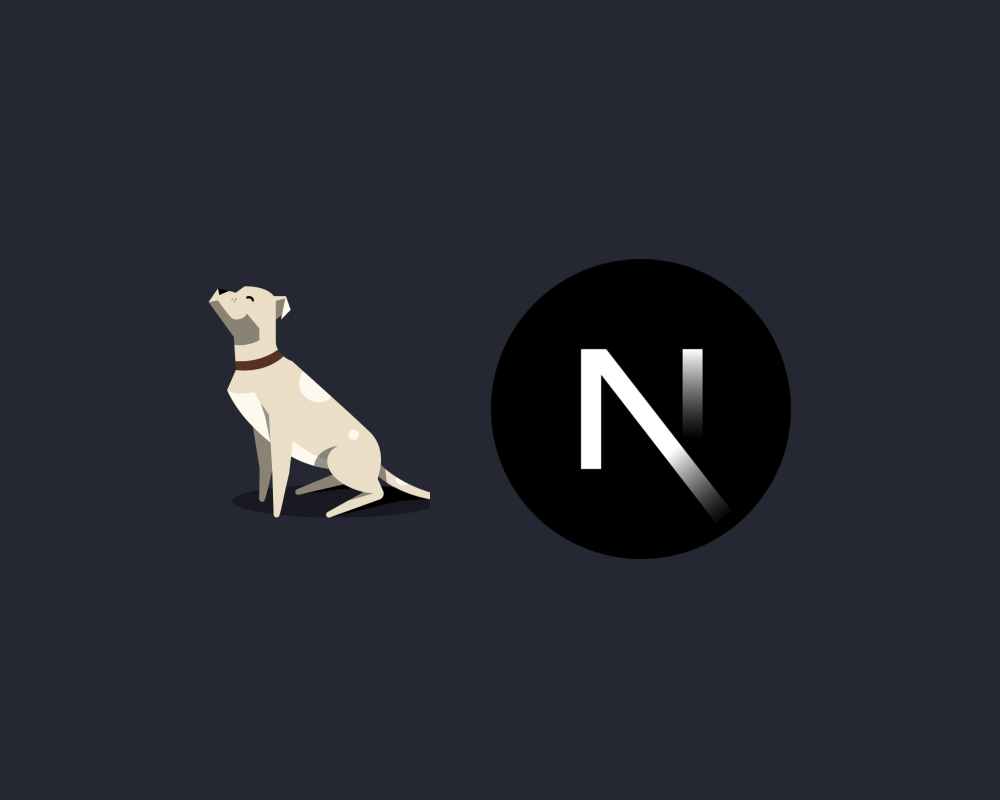
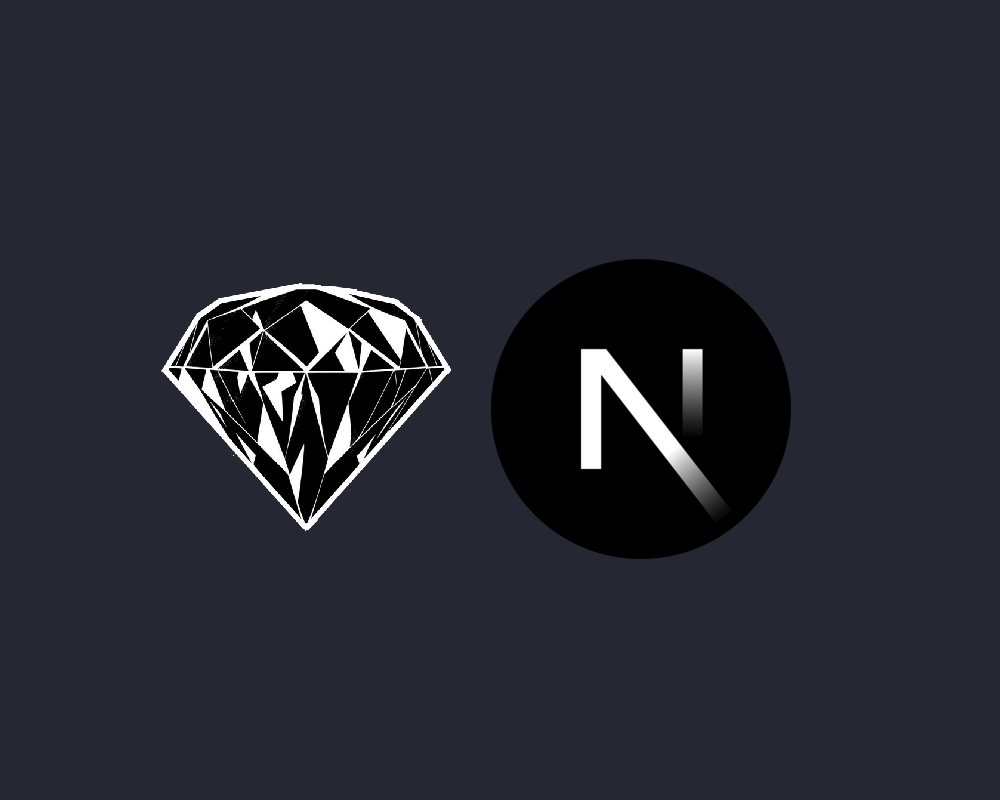
:sparkles: change thumbnail in portfolio section

Changed region(s): [[0.155, 0.3438, 0.465, 0.6562]]

diff --git a/components/Portfolio.jsx b/components/Portfolio.jsx
@@ -26,7 +26,7 @@ const tabs = [
         thumbnailSrc: '/assets/images/portfolio/about-jooncco.png',
         demoUrl: '',
         githubUrl: 'https://github.com/jooncco/about-jooncco',
-        desc: "Jooncco's knowledge base front end, built with Next.js 14.",
+        desc: "Developer jooncco's portfolio page made with Next.js 14.",
       },
       {
         title: 'Spring Boot API Server Template',
